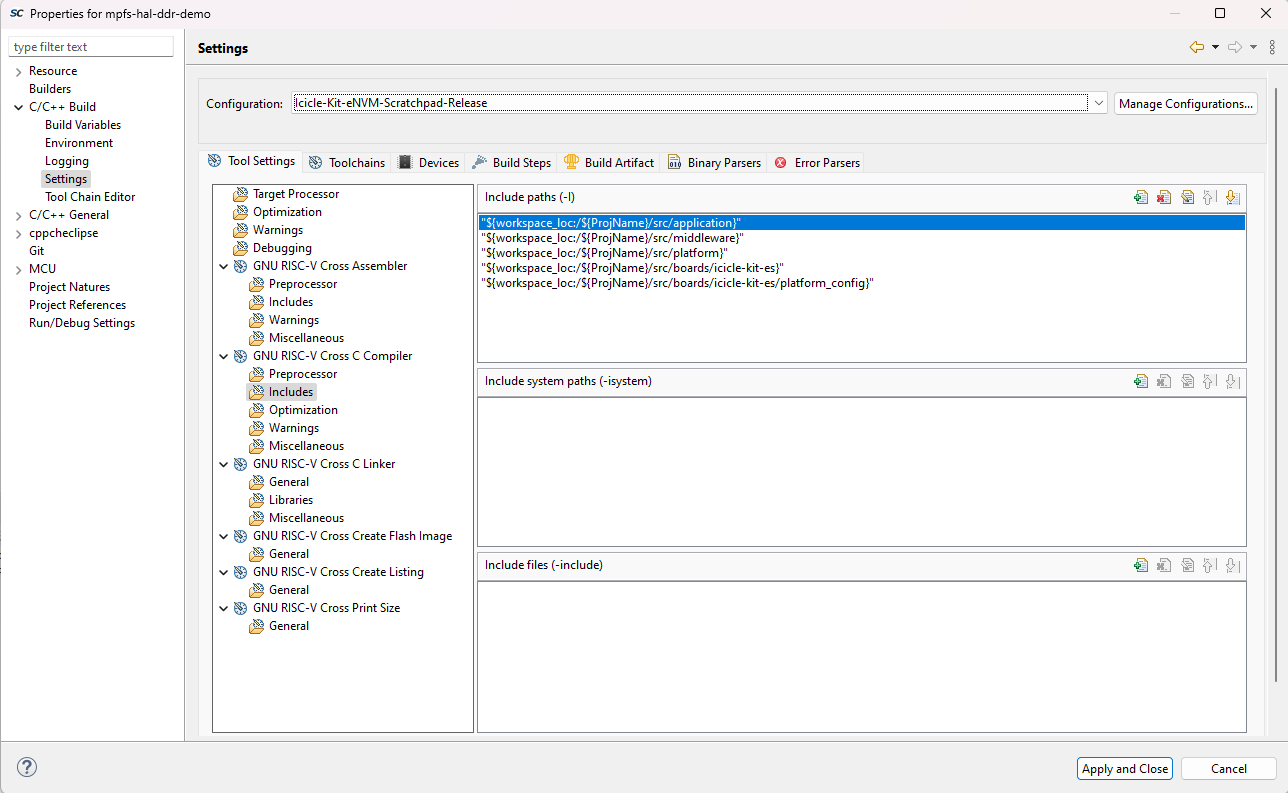
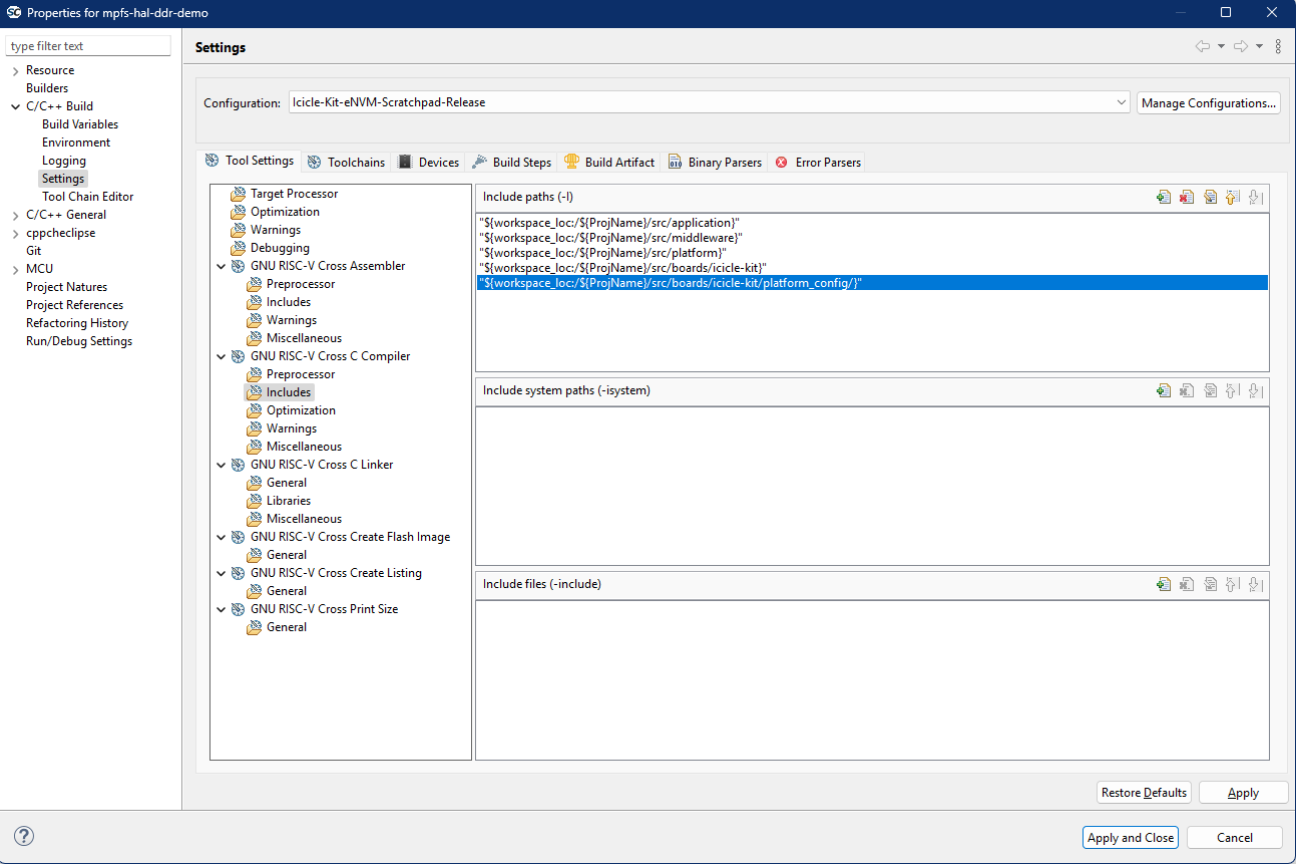
top-level-readme: improved description
- importing external tool launchers from mpfs-blank-baremental project to workspace
- similarilies and differences between of icicle-kit-es and icicle-kit boards folders
- improve description of Debug launchers
- replacing referances to icicle-kit-es with icicle-kit

Jira-id: ESSBM-402

Changed region(s): [[0.0, 0.0, 1.0, 1.0]]

diff --git a/README.md b/README.md
@@ -71,16 +71,22 @@ These are detailed in the following sections of this document.
 
 The table below contains a list of the projects in this repository and the boards they support:
 
-| Board              | Supported projects                                                                                                                                                                                                                                                                                                                                                                                                                                                                                                                                                                                                                                                                                                                                                                                                                                                                                                                                                                                                                                                                                                                                                                                                                                                                                                            |
-| ------------------ | ----------------------------------------------------------------------------------------------------------------------------------------------------------------------------------------------------------------------------------------------------------------------------------------------------------------------------------------------------------------------------------------------------------------------------------------------------------------------------------------------------------------------------------------------------------------------------------------------------------------------------------------------------------------------------------------------------------------------------------------------------------------------------------------------------------------------------------------------------------------------------------------------------------------------------------------------------------------------------------------------------------------------------------------------------------------------------------------------------------------------------------------------------------------------------------------------------------------------------------------------------------------------------------------------------------------------------- |
-| icicle-kit         | Supports all examples unless stated otherwise                                                                                                                                                                                                                                                                                                                                                                                                                                                                                                                                                                                                                                                                                                                                                                                                                                                                                                                                                                                                                                                                                                                                                                                                                                                                                 |
-| icicle-kit-es      | Supports all examples unless stated otherwise                                                                                                                                                                                                                                                                                                                                                                                                                                                                                                                                                                                                                                                                                                                                                                                                                                                                                                                                                                                                                                                                                                                                                                                                                                                                                 |
-| mpfs-discovery-kit | **Applications:** <br> - mpfs-blank-baremetal: [mpfs-blank-baremetal](./applications/mpfs-blank-baremetal) <br><br> **Driver Examples:** <br> - core-pwm: [mpfs-corepwm-slow-blink](./driver-examples/fpga-ip/CorePWM/mpfs-corepwm-slow-blink) <br> - mpfs-hal: [mpfs-hal-ddr-demo](./driver-examples/mss/mpfs-hal/mpfs-hal-ddr-demo) <br> - mss-pdma: [mpfs-pdma-read-write](./driver-examples/mss/mss-pdma/mpfs-pdma-read-write) <br> - mss-timer: [mpfs-timer-example](./driver-examples/mss/mss-timer/mpfs-timer-example) <br> - mss-spi: [mpfs-spi-master-slave](./driver-examples/mss/mss-spi/mpfs-spi-master-slave) <br> - mss-watchdog: [mpfs-watchdog-interrupt](./driver-examples/mss/mss-watchdog/mpfs-watchdog-interrupt) <br> - mss-i2c: [mpfs-i2c-master-slave](./driver-examples/mss/mss-i2c/mpfs-i2c-master-slave) <br> - mss-mmc: [mpfs-emmc-sd-write-read](./driver-examples/mss/mss-mmc/mpfs-emmc-sd-write-read)                                                                                                                                                                                                                                                                                                                                                                                           |
-| mpfs-video-kit     | **Applications:** <br> - user-crypto: [mpfs-user-crypto-aes-cryptography](./applications/user-crypto/mpfs-user-crypto-aes-cryptography), [mpfs-user-crypto-ccm-services](./applications/user-crypto/mpfs-user-crypto-ccm-services), [mpfs-user-crypto-dsa-services](./applications/user-crypto/mpfs-user-crypto-dsa-services), <br>[mpfs-user-crypto-ecdsa-services](./applications/user-crypto/mpfs-user-crypto-ecdsa-services), [mpfs-user-crypto-key-agreement-services](./applications/user-crypto/mpfs-user-crypto-key-agreement-services), [mpfs-user-crypto-key-tree-services](./applications/user-crypto/mpfs-user-crypto-key-tree-services), <br>[mpfs-user-crypto-message-authentication-services](./applications/user-crypto/mpfs-user-crypto-message-authentication-services), [mpfs-user-crypto-ndrbg-services](./applications/user-crypto/mpfs-user-crypto-ndrbg-services), [mpfs-user-crypto-rsa-cryptography-services](./applications/user-crypto/mpfs-user-crypto-rsa-cryptography-services), <br>[mpfs-user-crypto-rsa-services](./applications/user-crypto/mpfs-user-crypto-rsa-services)<br><br> **Driver Examples:** <br> - mpfs-hal: [mpfs-hal-ddr-demo](./driver-examples/mss/mpfs-hal/mpfs-hal-ddr-demo), [mpfs-hal-power-saving-demo](./driver-examples/mss/mpfs-hal/mpfs-hal-power-saving-demo)<br> |
+| Development Board              | Supported examples                                                                   |
+| ------------------ | ----------------------------------------------------------------------------- |
+| Icicle Kit          | Supports all examples unless stated otherwise                                 |
+| Icicle Kit ES      | Supports all examples. Only the IAP/Autoupdat service from mpfs-sys-serv-example is not supported on the Icicle kits with engineering sample (ES) devices|
+| PFSoC Discovery Kit | **Applications:** <br> - mpfs-blank-baremetal: [mpfs-blank-baremetal](./applications/mpfs-blank-baremetal) <br><br> **Driver Examples:** <br> - core-pwm: [mpfs-corepwm-slow-blink](./driver-examples/fpga-ip/CorePWM/mpfs-corepwm-slow-blink) <br> - mpfs-hal: [mpfs-hal-ddr-demo](./driver-examples/mss/mpfs-hal/mpfs-hal-ddr-demo) <br> - mss-pdma: [mpfs-pdma-read-write](./driver-examples/mss/mss-pdma/mpfs-pdma-read-write) <br> - mss-timer: [mpfs-timer-example](./driver-examples/mss/mss-timer/mpfs-timer-example) <br> - mss-spi: [mpfs-spi-master-slave](./driver-examples/mss/mss-spi/mpfs-spi-master-slave) <br> - mss-watchdog: [mpfs-watchdog-interrupt](./driver-examples/mss/mss-watchdog/mpfs-watchdog-interrupt) <br> - mss-i2c: [mpfs-i2c-master-slave](./driver-examples/mss/mss-i2c/mpfs-i2c-master-slave) <br> - mss-mmc: [mpfs-emmc-sd-write-read](./driver-examples/mss/mss-mmc/mpfs-emmc-sd-write-read)                                                                                                                                                                                                                                                                                                                                                                                           |
+| PFSoC Video Kit     | **Applications:** <br> - user-crypto: [mpfs-user-crypto-aes-cryptography](./applications/user-crypto/mpfs-user-crypto-aes-cryptography), [mpfs-user-crypto-ccm-services](./applications/user-crypto/mpfs-user-crypto-ccm-services), [mpfs-user-crypto-dsa-services](./applications/user-crypto/mpfs-user-crypto-dsa-services), <br>[mpfs-user-crypto-ecdsa-services](./applications/user-crypto/mpfs-user-crypto-ecdsa-services), [mpfs-user-crypto-key-agreement-services](./applications/user-crypto/mpfs-user-crypto-key-agreement-services), [mpfs-user-crypto-key-tree-services](./applications/user-crypto/mpfs-user-crypto-key-tree-services), <br>[mpfs-user-crypto-message-authentication-services](./applications/user-crypto/mpfs-user-crypto-message-authentication-services), [mpfs-user-crypto-ndrbg-services](./applications/user-crypto/mpfs-user-crypto-ndrbg-services), [mpfs-user-crypto-rsa-cryptography-services](./applications/user-crypto/mpfs-user-crypto-rsa-cryptography-services), <br>[mpfs-user-crypto-rsa-services](./applications/user-crypto/mpfs-user-crypto-rsa-services)<br><br> **Driver Examples:** <br> - mpfs-hal: [mpfs-hal-ddr-demo](./driver-examples/mss/mpfs-hal/mpfs-hal-ddr-demo), [mpfs-hal-power-saving-demo](./driver-examples/mss/mpfs-hal/mpfs-hal-power-saving-demo)<br> |
 
 All of the projects are tested on the PolarFire SoC Icicle kit. All the projects are tested with the
 latest available [Icicle kit Reference Libero design](https://github.com/polarfire-soc/icicle-kit-reference-design) or one of it's variants, unless noted otherwise.
 Please refer to the README markdown file in each project for details.
+
+**NOTE:** From v2025.07 onwards, the Icicle kit reference design provides two different assets
+- MPFS_ICICLE_KIT_2025_07.zip - For newer Icicle kits with production version PFSoC FPGA device (MPFS250T)
+- MPFS_ICICLE_KIT_ES_2025_07.zip - For Icicle kits with Engineering Sample (ES) version of FPGA device (MPFS250T_ES)
+
+Except for the die name, the .cfg and .xml files generated by the MSS Configurator are identical for both devices. Additionally, the die name parameter is not used by Bare Metal projects for configuration purposes; therefore, all Bare Metal example projects will continue to use the boards/icicle-kit-es folder for both kit versions. In contrast, the HSS uses two separate folders for the respective kits to manage the Linux boot sequence.
 
 ## 3. Configuring and Building Project
 
@@ -90,22 +96,32 @@ optimization level (e.g. -Os, -O0 etc.). You may use these pre-made configuratio
 own configuration using the SoftConsole project settings. Below is the list of all the main build
 configurations provided by default with each project:
 
-| Configuration           | Description                                                                                                                                 | Example use case                                                                                                                                                                                                                                                                                                                                                                                      |
-| ----------------------- | ------------------------------------------------------------------------------------------------------------------------------------------- | ----------------------------------------------------------------------------------------------------------------------------------------------------------------------------------------------------------------------------------------------------------------------------------------------------------------------------------------------------------------------------------------------------  |
-| LIM-Debug               | Download to and debug from LIM memory. Not-optimized (-O0). (Could be used with boot mode 0)                                                | This build configuration can be used to step-debug bare metal software typically in the initial development phase. The device should be configured to boot mode 0 and the embedded software loaded using the debugger.                                                                                                                                                                                |
-| LIM-Release             | Download to and debug from LIM memory. Optimized (-Os). (Could be used with boot mode 2)                                                    | This build configuration is similar to LIM-Debug build configuration but uses higher optimization level (-Os). It initially runs from LIM, configures scratchpad, copies itself to it and executes from there. This build configuration is closer to a typical release code and still allows step-debugging.                                                                                          |
-| DDR-Release             | Execute from cached DDR memory – typically via a bootloader. Optimized (-Os).                                                               | This build configuration is used when this embedded software is going to be run from DDR memory. It is assumed at this point that the embedded software has been tested by either pre-configuring DDR (for example by using the HSS) and loading the embedded software into DDR using the debugger or by running the embedded software from the LIM. This can be used in an SMP or AMP configuration. |
-| eNVM-Scratchpad-Release | Booting from eNVM, program relocates itself to scratchpad memory and continues execution. Optimized (-Os). (Could be used with boot mode 1) | This build configuration is used when the embedded software is programmed to the eNVM and executes straight after the reset. It is assumed that this embedded software has already been tested using the LIM-Debug or LIM-Release configuration.                                                                                                                                                      |
+| Configuration           | Description | Example use    |
+| ----------------------- | ------------| -------------  |
+| LIM-Debug*               | Download to and debug from LIM memory. Not-optimized (-O0). (Could be used with boot mode 0) | This build configuration can be used to step-debug bare metal software typically in the initial development phase. The device should be configured to boot mode 0 and the embedded software loaded using the debugger. |
+| LIM-Release*             | Download to and debug from LIM memory. Optimized (-Os). (Could be used with boot mode 2) | This build configuration is similar to LIM-Debug build configuration but uses higher optimization level (-Os). It initially runs from LIM, configures scratchpad, copies itself to it and executes from there. This build configuration is closer to a typical release code and still allows step-debugging.  |
+| DDR-Release*             | Execute from cached DDR memory – typically via a bootloader. Optimized (-Os). | This build configuration is used when this embedded software is going to be run from DDR memory. It is assumed at this point that the embedded software has been tested by either pre-configuring DDR (for example by using the HSS) and loading the embedded software into DDR using the debugger or by running the embedded software from the LIM. This can be used in an SMP or AMP configuration. |
+| eNVM-Scratchpad-Release* | Booting from eNVM, program relocates itself to scratchpad memory and continues execution. Optimized (-Os). (Could be used with boot mode 1) | This build configuration is used when the embedded software is programmed to the eNVM and executes straight after the reset. It is assumed that this embedded software has already been tested using the LIM-Debug or LIM-Release configuration.                                                                                                                                                      |
+
+Note that the build configuration names used in the above table are representative. In practice they will be typically extended with the hardware kit name for which are they are implemented.
+
+For example:
+
+    - DDR-Release-DiscoveryKit
+    - DDR-Release-IcicleKit
+    - LIM-Debug-DiscoveryKit
+    - LIM-Debug-IcicleKit
 
 ### 3.1. Debug Build Configurations
 
-The build configurations post-fixed with \*-Debug are intended for the debugging stages of your
+The build configurations postfixed with \*-Debug are intended for the debugging stages of your
+The build configurations postfixed with \*-Debug are intended for the debugging stages of your
 project. By convention, the \*-Debug configurations use optimization level -O0 and generate maximum
 debug symbol information for the user.
 
 ### 3.2. Release Build Configurations
 
-The build configurations post-fixed with \*-Release are intended for the final release versions of
+The build configurations postfixed with \*-Release are intended for the final release versions of
 your projects, where an executable is stored in non-volatile memory and runs after power-on-reset,
 or the executable is launched by a previous stage bootloader. By convention, the \*-Release
 configurations use optimization level -Os and do not generate debug symbol information. They also
@@ -200,7 +216,7 @@ When you want to update your SoftConsole example project to the latest release o
 repository, please download the [platform repository](https://mi-v-ecosystem.github.io/redirects/repo-platform) and replace the */src/**platform (Fig. 2(f))*** directory in the
 example project with it. When you update the */src/**platform (Fig. 2(f))*** folder in your project, you must make
 sure that the reference design and the .xml file are compatible with it. Also ensure that any
-customized mss_sw_config.h or linker scripts under *\<project-root>/src/boards/\<icicle-kit-es>
+customized mss_sw_config.h or linker scripts under *\<project-root>/src/boards/\<icicle-kit>
 /**platform_config (Fig. 2(e))*** folder are also updated accordingly.
 
 ### 3.6. Hardware Configurations
@@ -305,7 +321,7 @@ is used. For example, when an application stored in eNVM starts running after re
 
 Set IMAGE_LOADED_BY_BOOTLOADER = 1 when the application's executable image is loaded by a previous
 stage bootloader. The DDR-Release is one such configuration which uses this setting. The
-modified mss_sw_config.h can be found under the *\<project-root>/src/boards/\<icicle-kit-es>
+modified mss_sw_config.h can be found under the *\<project-root>/src/boards/\<icicle-kit>
 /**platform_config folder (Fig. 1(e))***.
 
 ![confgi2.png](./images/confgi2.png)
@@ -358,11 +374,11 @@ The following table shows the correspondence between program launchers and build
 
 #### 4.1.1. Configuring External Tools for Particular Boards (only for eNVM Release)
 
-The board you are using, as well as it's associated die and package, matters when using the External
+The board you are using, as well as the die and package of the FPGA device on it matters when using the External
 Tools to program your device. These must be correctly specified as arguments in the External Tools
 Configurations window in SoftConsole.
 
-Depending on the die and package you are using, you will need to set the External Tools Arguments 
+Depending on the die and package of the FPGA device on your board, you will need to set the External Tools Arguments
 according to the following table.
 
 |             | Icicle Kit ES (Engineering Sample) | Icicle Kit (Production Silicon) | Video Kit | Discovery Kit |
@@ -376,7 +392,11 @@ device.
 
 ![external-tools-config.png](./images/external-tools-config.png)
 
-### 4.2. Programming to DDR
+Alternatively, the `/applications/mpfs-blank-baremetal` project provides the external tool launchers for the various Microchip PFSoC kits. Importing the `/applications/mpfs-blank-baremetal` project in your SoftConsole workspace and keeping it open will make these tool launchers available in the SoftConsole IDE as demonstrated below
+
+![Importing mpfs-blank-baremetal to access the external launcher tools](./images/external-tools.gif)
+
+## 4.2. Programming to DDR
 
 To program the PolarFire SoC Bare Metal Examples to the DDR of your desired board. You will first
 have to execute a DDR-Release build for your project. You will then have to use the .elf file(s)

diff --git a/driver-examples/mss/mpfs-hal/mpfs-hal-run-from-ddr-u54-1/README.md b/driver-examples/mss/mpfs-hal/mpfs-hal-run-from-ddr-u54-1/README.md
@@ -2,14 +2,14 @@
 # Bare metal single hart(U54_1) payload example
 
 This example project creates an executable which can be loaded by a boot-loader.
-The program runs in m-mode. 
+The program runs in m-mode.
 
 The program runs on U54_1 only and prints messages on UART1.
 
 See the file mss_sw_config.h for configuration details located in the following directory.
 
 ~~~
-src\boards\icicle-kit-es\platform_config\mpfs_hal_config
+src\boards\icicle-kit\platform_config\mpfs_hal_config
 ~~~
 
 The program can be loaded and [run using the Hart Software Systems (HSS)](https://github.com/polarfire-soc/polarfire-soc-bare-metal-examples/blob/main/driver-examples/mss/mpfs-hal/README.md).

diff --git a/driver-examples/mss/mpfs-hal/mpfs-hal-run-from-ddr-u54-2/README.md b/driver-examples/mss/mpfs-hal/mpfs-hal-run-from-ddr-u54-2/README.md
@@ -2,14 +2,14 @@
 # Bare metal single hart(U54_2) payload example
 
 This example project creates an executable which can be loaded by a boot-loader.
-The program runs in m-mode. 
+The program runs in m-mode.
 
 The program runs on U54_2 only and prints messages on UART2.
 
 See the file mss_sw_config.h for configuration details located in the following directory.
 
 ~~~
-src\boards\icicle-kit-es\platform_config\mpfs_hal_config
+src\boards\icicle-kit\platform_config\mpfs_hal_config
 ~~~
 
 The program can be loaded and [run using the Hart Software Systems (HSS)](https://github.com/polarfire-soc/polarfire-soc-bare-metal-examples/blob/main/driver-examples/mss/mpfs-hal/README.md).

diff --git a/driver-examples/mss/mpfs-hal/mpfs-hal-run-from-ddr-u54-1-u54-2/README.md b/driver-examples/mss/mpfs-hal/mpfs-hal-run-from-ddr-u54-1-u54-2/README.md
@@ -3,14 +3,14 @@
 
 
 This example project creates an executable which can be loaded by a boot-loader.
-The program runs in m-mode. 
+The program runs in m-mode.
 
 The program runs on U54_1 and U54_2 only and prints messages on UART1 and UART2 respectively.
 
 See the file mss_sw_config.h for configuration details located in the following directory.
 
 ~~~
-src\boards\icicle-kit-es\platform_config\mpfs_hal_config
+src\boards\icicle-kit\platform_config\mpfs_hal_config
 ~~~
 
 The program can be loaded and [run using the Hart Software Systems (HSS)](https://github.com/polarfire-soc/polarfire-soc-bare-metal-examples/blob/main/driver-examples/mss/mpfs-hal/README.md).

diff --git a/driver-examples/mss/mpfs-hal/mpfs-hal-ddr-demo/README.md b/driver-examples/mss/mpfs-hal/mpfs-hal-ddr-demo/README.md
@@ -64,7 +64,7 @@ and **MPFS_ICICLE_MSS_baremetal.xml** from this new design are available.
 ### Add new board under the boards directory
 
 Create a new directory /\<my_board> under the src/boards directory. Use one of
-the existing board directories (e.g icicle-kit-es) as a template, copying and renaming as appropriate.
+the existing board directories (e.g icicle-kit) as a template, copying and renaming as appropriate.
   * src/boards/**\<my-board>**
 
 The following table describes the folder heirarchy and the files that should be

diff --git a/driver-examples/mss/mpfs-hal/mpfs-hal-simple-demo/README.md b/driver-examples/mss/mpfs-hal/mpfs-hal-simple-demo/README.md
@@ -48,7 +48,7 @@ MPFS_HAL_LAST_HART
 ~~~
 located in the software board configuration file
 ~~~
-<src/boards/icicle-kit-es/platform_config/mpfs_hal_config/mss_sw_config.h>
+<src/boards/icicle-kit/platform_config/mpfs_hal_config/mss_sw_config.h>
 ~~~
 
 ## Description of Application code in this example :
